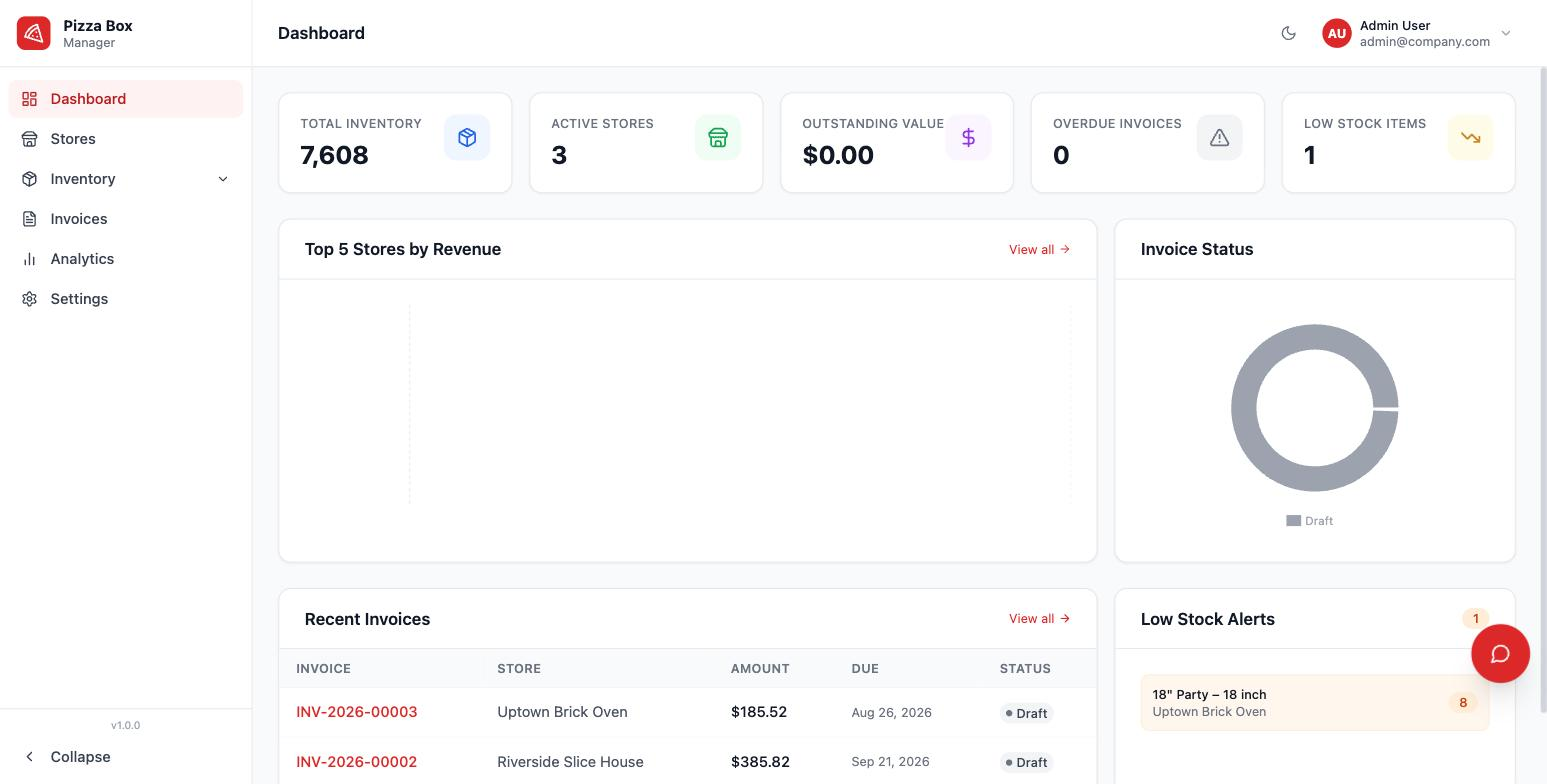
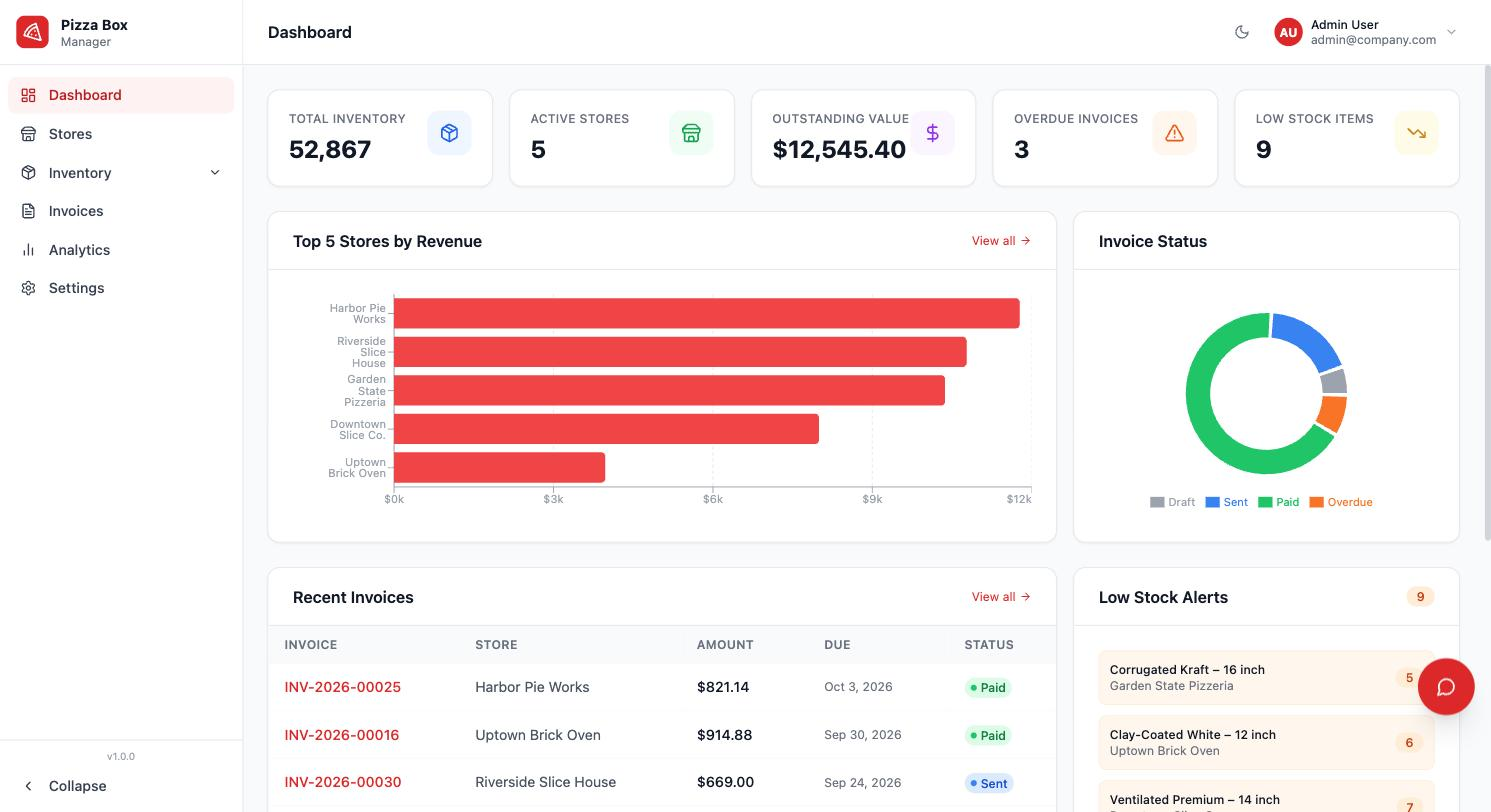
docs: seed realistic demo data, and retake the screenshots against it
The screenshots were honest but they documented an app that looked broken.
Every seeded invoice was a DRAFT, and analytics counts only invoices that
have left draft (controllers/analytics.ts filters on PAID/SENT/OVERDUE
within a date window) — so revenue read 0, all four charts drew empty, and
the README had to explain the zeros away rather than show the feature.

Adds `npm run demo:seed`: 5 stores, 5 box types across 5 sizes, 75 priced
inventory rows, and 38 invoices spread over four months and all four
statuses. It is deterministic (fixed-seed PRNG), so retaking a screenshot
later does not silently change the numbers — the $36,932.47 paid revenue in
the analytics shot reproduces exactly.

`prisma:reset` is unchanged and remains the right thing for a real
deployment; this is a second, clearly-separate entrypoint.

Retook 01-04 and added 06-inventory, which shows the per-store stock and
per-item low-stock thresholds that drive the dashboard alerts. Also corrected
the README's claim that the data came through the public REST API — it
comes from the seed script, and now says so.

diff --git a/server/src/prisma/demo-seed.ts b/server/src/prisma/demo-seed.ts
@@ -1,0 +1,218 @@
+import dotenv from 'dotenv';
+import { PrismaClient, InvoiceStatus } from '@prisma/client';
+import bcrypt from 'bcryptjs';
+
+// Same reason as reset.ts: Prisma resolves DATABASE_URL when the client is
+// constructed, and this is a separate entrypoint from server.ts.
+dotenv.config();
+
+const prisma = new PrismaClient();
+
+/*
+ * Demo data for screenshots, local exploration, and manual QA.
+ *
+ * `prisma:reset` deliberately leaves an empty system with one admin — that is the
+ * right starting point for a real deployment. It is the wrong one for looking at
+ * the app, because every analytics query filters on
+ * `status IN (PAID, SENT, OVERDUE)` and a date window (see controllers/analytics.ts).
+ * A database of DRAFT invoices therefore renders every chart empty and every
+ * revenue figure as 0, which reads as a broken app rather than an empty one.
+ *
+ * So the invoices below are spread across statuses AND across the last ~120 days,
+ * which is what makes the 7d/30d/90d/12m range selector show different things.
+ *
+ * Deterministic on purpose: a fixed seed means re-running produces the same
+ * numbers, so a screenshot can be retaken later without silently changing them.
+ */
+
+// Mulberry32 — small deterministic PRNG. Any fixed-seed generator would do; the
+// point is only that `npm run demo:seed` twice gives the same database twice.
+function makeRng(seed: number) {
+  let a = seed;
+  return () => {
+    a = (a + 0x6d2b79f5) | 0;
+    let t = Math.imul(a ^ (a >>> 15), 1 | a);
+    t = (t + Math.imul(t ^ (t >>> 7), 61 | t)) ^ t;
+    return ((t ^ (t >>> 14)) >>> 0) / 4294967296;
+  };
+}
+const rng = makeRng(20260907);
+const pick = <T>(xs: T[]): T => xs[Math.floor(rng() * xs.length)];
+const between = (lo: number, hi: number) => lo + Math.floor(rng() * (hi - lo + 1));
+const daysAgo = (n: number) => new Date(Date.now() - n * 86_400_000);
+const money = (n: number) => Math.round(n * 100) / 100;
+
+const STORES = [
+  { name: 'Downtown Slice Co.',    contactName: 'Marco Ferretti',  email: 'orders@downtownslice.com',   phone: '(212) 555-0148', address: '412 Bleecker St',     city: 'New York',     state: 'NY', zipCode: '10014', taxRate: 8.875, defaultShippingFee: 25 },
+  { name: 'Riverside Slice House', contactName: 'Dana Whitlock',   email: 'purchasing@riversidesh.com', phone: '(718) 555-0193', address: '88 Kent Ave',         city: 'Brooklyn',     state: 'NY', zipCode: '11249', taxRate: 8.875, defaultShippingFee: 25 },
+  { name: 'Uptown Brick Oven',     contactName: 'Priya Raghavan',  email: 'ap@uptownbrickoven.com',     phone: '(917) 555-0122', address: '2301 Broadway',       city: 'New York',     state: 'NY', zipCode: '10024', taxRate: 8.875, defaultShippingFee: 30 },
+  { name: 'Harbor Pie Works',      contactName: 'Tomas Oyelaran',  email: 'tomas@harborpieworks.com',   phone: '(203) 555-0177', address: '19 Water St',         city: 'Stamford',     state: 'CT', zipCode: '06902', taxRate: 6.35,  defaultShippingFee: 40 },
+  { name: 'Garden State Pizzeria', contactName: 'Alicia Moreno',   email: 'alicia@gspizzeria.com',      phone: '(973) 555-0165', address: '640 Bloomfield Ave',  city: 'Montclair',    state: 'NJ', zipCode: '07042', taxRate: 6.625, defaultShippingFee: 35 },
+];
+
+const BOX_TYPES = [
+  { name: 'Corrugated Kraft',   description: 'Standard B-flute corrugated, unprinted kraft exterior' },
+  { name: 'Clay-Coated White',  description: 'Clay-coated news back, takes full-colour print' },
+  { name: 'Recycled Brown',     description: '100% post-consumer recycled, FSC certified' },
+  { name: 'Grease-Resistant',   description: 'PFAS-free grease barrier liner for high-oil pies' },
+  { name: 'Ventilated Premium', description: 'Perforated side vents to reduce crust sogginess' },
+];
+
+const BOX_SIZES = [
+  { name: '10 inch', dimensions: '10 x 10 x 1.75 in', sortOrder: 1 },
+  { name: '12 inch', dimensions: '12 x 12 x 1.75 in', sortOrder: 2 },
+  { name: '14 inch', dimensions: '14 x 14 x 2 in',    sortOrder: 3 },
+  { name: '16 inch', dimensions: '16 x 16 x 2 in',    sortOrder: 4 },
+  { name: '18 inch', dimensions: '18 x 18 x 2 in',    sortOrder: 5 },
+];
+
+// Larger boxes cost more; this keeps unit prices plausible rather than random.
+const PRICE_BY_SIZE: Record<string, number> = {
+  '10 inch': 0.42, '12 inch': 0.51, '14 inch': 0.63, '16 inch': 0.78, '18 inch': 0.94,
+};
+const PRICE_MULTIPLIER_BY_TYPE: Record<string, number> = {
+  'Corrugated Kraft': 1.0, 'Clay-Coated White': 1.25, 'Recycled Brown': 1.1,
+  'Grease-Resistant': 1.4, 'Ventilated Premium': 1.6,
+};
+
+async function main() {
+  console.log('Clearing existing data...');
+  await prisma.auditLog.deleteMany();
+  await prisma.inventoryTransaction.deleteMany();
+  await prisma.invoiceLineItem.deleteMany();
+  await prisma.invoice.deleteMany();
+  await prisma.productStock.deleteMany();
+  await prisma.product.deleteMany();
+  await prisma.inventoryItem.deleteMany();
+  await prisma.store.deleteMany();
+  await prisma.boxSize.deleteMany();
+  await prisma.boxType.deleteMany();
+  await prisma.passwordResetToken.deleteMany();
+  await prisma.user.deleteMany();
+  await prisma.invoiceCounter.deleteMany();
+  await prisma.appSettings.deleteMany();
+
+  const admin = await prisma.user.create({
+    data: {
+      email: 'admin@company.com',
+      passwordHash: await bcrypt.hash('Admin123!', 10),
+      firstName: 'Admin',
+      lastName: 'User',
+      role: 'ADMIN',
+    },
+  });
+
+  const boxTypes = await Promise.all(BOX_TYPES.map((data) => prisma.boxType.create({ data })));
+  const boxSizes = await Promise.all(BOX_SIZES.map((data) => prisma.boxSize.create({ data })));
+  const stores = await Promise.all(STORES.map((data) => prisma.store.create({ data })));
+  console.log(`Created ${stores.length} stores, ${boxTypes.length} box types, ${boxSizes.length} sizes.`);
+
+  // Every store stocks every size, but only three of the five types, so the
+  // inventory list has variety instead of a uniform grid.
+  const inventory: { id: string; storeId: string; type: string; size: string; price: number; quantity: number }[] = [];
+  for (const store of stores) {
+    const stocked = [...boxTypes].sort(() => rng() - 0.5).slice(0, 3);
+    for (const type of stocked) {
+      for (const size of boxSizes) {
+        const price = money(PRICE_BY_SIZE[size.name] * PRICE_MULTIPLIER_BY_TYPE[type.name]);
+        // A handful land under the threshold so the low-stock panel is populated
+        // rather than empty — that panel is a real feature and should be visible.
+        const quantity = rng() < 0.12 ? between(2, 18) : between(120, 1400);
+        const item = await prisma.inventoryItem.create({
+          data: {
+            storeId: store.id, boxTypeId: type.id, boxSizeId: size.id,
+            quantity, pricePerUnit: price, lowStockThreshold: 25,
+          },
+        });
+        inventory.push({ id: item.id, storeId: store.id, type: type.name, size: size.name, price, quantity });
+      }
+    }
+  }
+  console.log(`Created ${inventory.length} inventory items.`);
+
+  /*
+   * Status mix is chosen so each dashboard widget has something to show:
+   * PAID dominates (it is the normal end state), a few are still SENT and
+   * therefore outstanding, three are OVERDUE so the overdue KPI is non-zero,
+   * and a couple stay DRAFT so that state is represented too.
+   */
+  const PLAN: { status: InvoiceStatus; count: number }[] = [
+    { status: 'PAID', count: 26 },
+    { status: 'SENT', count: 7 },
+    { status: 'OVERDUE', count: 3 },
+    { status: 'DRAFT', count: 2 },
+  ];
+
+  let seq = 0;
+  let created = 0;
+  for (const { status, count } of PLAN) {
+    for (let i = 0; i < count; i++) {
+      const store = pick(stores);
+      const options = inventory.filter((x) => x.storeId === store.id);
+
+      // OVERDUE has to be genuinely old, or a due date in the future would
+      // contradict the status the row claims.
+      const issuedDaysAgo = status === 'OVERDUE' ? between(75, 115) : between(1, 118);
+      const issueDate = daysAgo(issuedDaysAgo);
+      const dueDate = new Date(issueDate.getTime() + 30 * 86_400_000);
+
+      const lines = [...options].sort(() => rng() - 0.5).slice(0, between(2, 4));
+      const lineData = lines.map((line) => {
+        const quantityOrdered = between(4, 40) * 25; // ordered by the case
+        const lineTotal = money(line.price * quantityOrdered);
+        return {
+          inventoryItemId: line.id,
+          description: `${line.type} — ${line.size}`,
+          boxTypeSnapshot: line.type,
+          boxSizeSnapshot: line.size,
+          quantityOrdered,
+          unitPrice: line.price,
+          lineTotal,
+        };
+      });
+
+      const subtotal = money(lineData.reduce((sum, l) => sum + l.lineTotal, 0));
+      const taxAmount = money(subtotal * (store.taxRate / 100));
+      const shippingFee = money(Number(store.defaultShippingFee));
+      const total = money(subtotal + taxAmount + shippingFee);
+
+      seq += 1;
+      await prisma.invoice.create({
+        data: {
+          invoiceNumber: `INV-2026-${String(seq).padStart(5, '0')}`,
+          storeId: store.id,
+          status,
+          issueDate,
+          dueDate,
+          sentAt: status === 'DRAFT' ? null : issueDate,
+          paidAt: status === 'PAID' ? new Date(issueDate.getTime() + between(2, 25) * 86_400_000) : null,
+          overdueAt: status === 'OVERDUE' ? dueDate : null,
+          currency: 'USD',
+          taxRate: store.taxRate,
+          subtotal, taxAmount, shippingFee, total,
+          createdById: admin.id,
+          lineItems: { create: lineData },
+        },
+      });
+      created += 1;
+    }
+  }
+
+  // Keep the counter ahead of what was just inserted, so the first invoice
+  // created through the UI does not collide with a seeded invoice number.
+  await prisma.invoiceCounter.create({ data: { year: 2026, lastSeq: seq } });
+
+  const paid = await prisma.invoice.aggregate({ _sum: { total: true }, where: { status: 'PAID' } });
+  console.log(`Created ${created} invoices across ${PLAN.length} statuses.`);
+  console.log(`Paid revenue on the books: $${Number(paid._sum.total ?? 0).toFixed(2)}`);
+  console.log('\nSign in with:  admin@company.com / Admin123!');
+}
+
+main()
+  .catch((e) => {
+    console.error('Demo seed failed:', e);
+    process.exit(1);
+  })
+  .finally(async () => {
+    await prisma.$disconnect();
+  });

diff --git a/README.md b/README.md
@@ -21,30 +21,38 @@ A full-stack web application for managing pizza box inventory across multiple st
 ## A look at it
 
 Every screenshot below is the running app — Postgres, Redis, the API and the React
-client, with data created through the public REST API rather than inserted behind it.
+client — populated by `npm run demo:seed` (see [Demo data](#demo-data)). Nothing is
+mocked and no figure is drawn in by hand; the seed is deterministic, so these numbers
+reproduce exactly.
 
 The dashboard is the daily view: stock on hand, what is owed, and anything that needs
 attention. The low-stock tile and the alert panel are driven by each item's own
 threshold, not a global number:
 
-![Dashboard showing 7,608 units across 3 stores and one low-stock alert](docs/screenshots/01-dashboard.jpg)
+![Dashboard showing 52,867 units across 5 stores, $12,545 outstanding and 9 low-stock alerts](docs/screenshots/01-dashboard.jpg)
 
 Invoices carry a status lifecycle (draft → sent → paid, plus cancelled and overdue),
 and totals are computed server-side per store — each line is priced from the inventory
 item it draws down, then taxed at that store's own rate:
 
-![Invoice list with per-store totals and draft status](docs/screenshots/02-invoices.jpg)
+![Invoice list with per-store subtotals, tax and paid/sent statuses](docs/screenshots/02-invoices.jpg)
 
 Stores own their currency, tax rate and default shipping fee, so an invoice inherits
 the right numbers instead of relying on the person filling it in:
 
 ![Store list with contacts and locations](docs/screenshots/03-stores.jpg)
 
-Analytics reads from the same data over a selectable window. Revenue counts *paid*
-invoices, so the figures below are zero on purpose — every invoice here is still a
-draft, and the charts say so rather than inventing a trend:
+Analytics reads from the same data over a selectable window. Revenue counts only
+invoices that have actually left draft (`PAID`, `SENT`, `OVERDUE`), so the window
+selector genuinely changes the answer rather than re-rendering the same total:
 
-![Analytics with revenue and units-sold panels over a 30-day window](docs/screenshots/04-analytics.jpg)
+![Analytics with revenue, units-sold, best-performer and per-store breakdowns over 30 days](docs/screenshots/04-analytics.jpg)
+
+Inventory is the part that makes this more than CRUD: every store holds its own stock
+of each box type and size, priced per unit, with a per-item low-stock threshold that
+drives the alerts on the dashboard:
+
+![Store inventory for one store: 15 items, 11,862 units, two below threshold](docs/screenshots/06-inventory.jpg)
 
 Sign-in is JWT-based: a short-lived access token in memory, and a rotating refresh
 token in an httpOnly cookie the page script can never read:
@@ -352,6 +360,26 @@ The reset script creates a single ADMIN account so you can log in; add any MANAG
 | Email | Password | Role |
 |-------|----------|------|
 | admin@company.com | Admin123! | ADMIN |
+
+### Demo data
+
+`prisma:reset` gives you an empty system with one admin, which is the right starting
+point for a real deployment but a poor one for looking around: analytics counts only
+invoices that have left draft, so an empty database renders every chart flat and every
+revenue figure as `0`.
+
+`demo:seed` fills it in instead — 5 stores, 5 box types across 5 sizes, 75 priced
+inventory rows and 38 invoices spread over the last four months and across all four
+statuses, so the date-range selector and the status filters both have something to act
+on. A few items are deliberately left under their low-stock threshold.
+
+```bash
+docker exec pizzabox_server npm run demo:seed   # or: cd server && npm run demo:seed
+```
+
+It is deterministic — the same run produces the same database every time, which is what
+lets the screenshots above be retaken without the numbers quietly changing. It clears
+existing data first, so do not point it at anything you care about.
 
 ---
 
